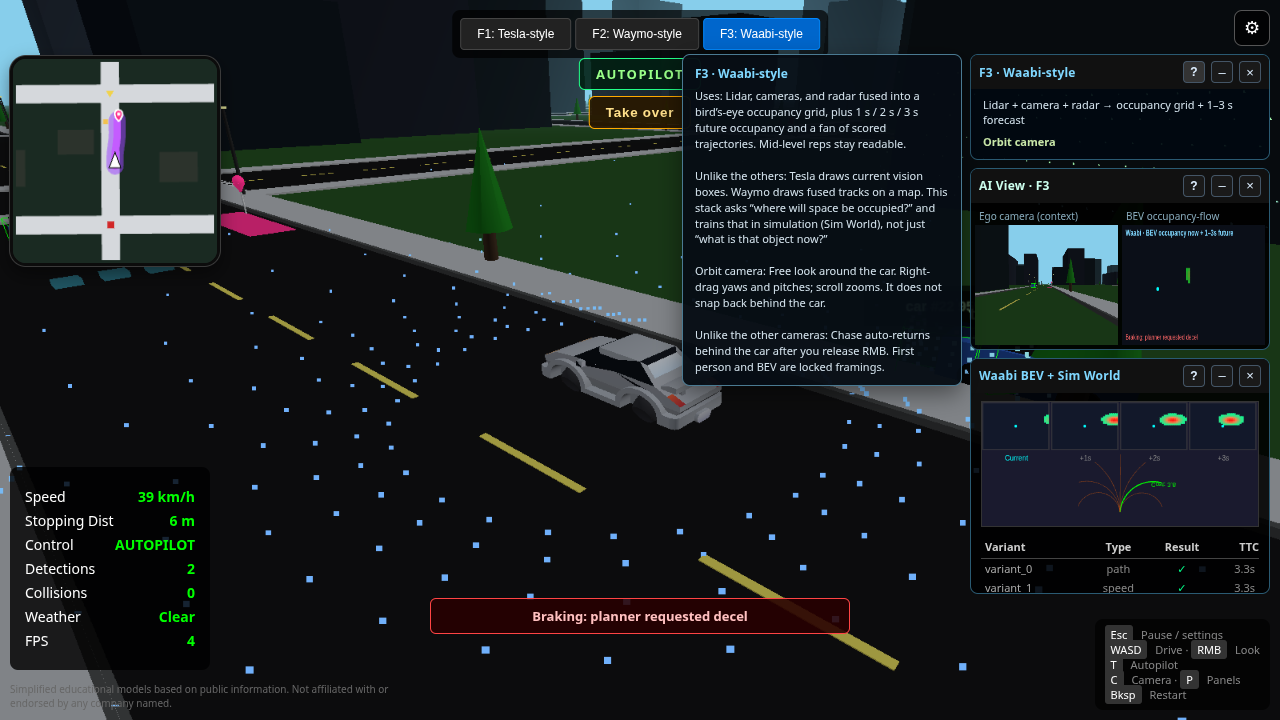
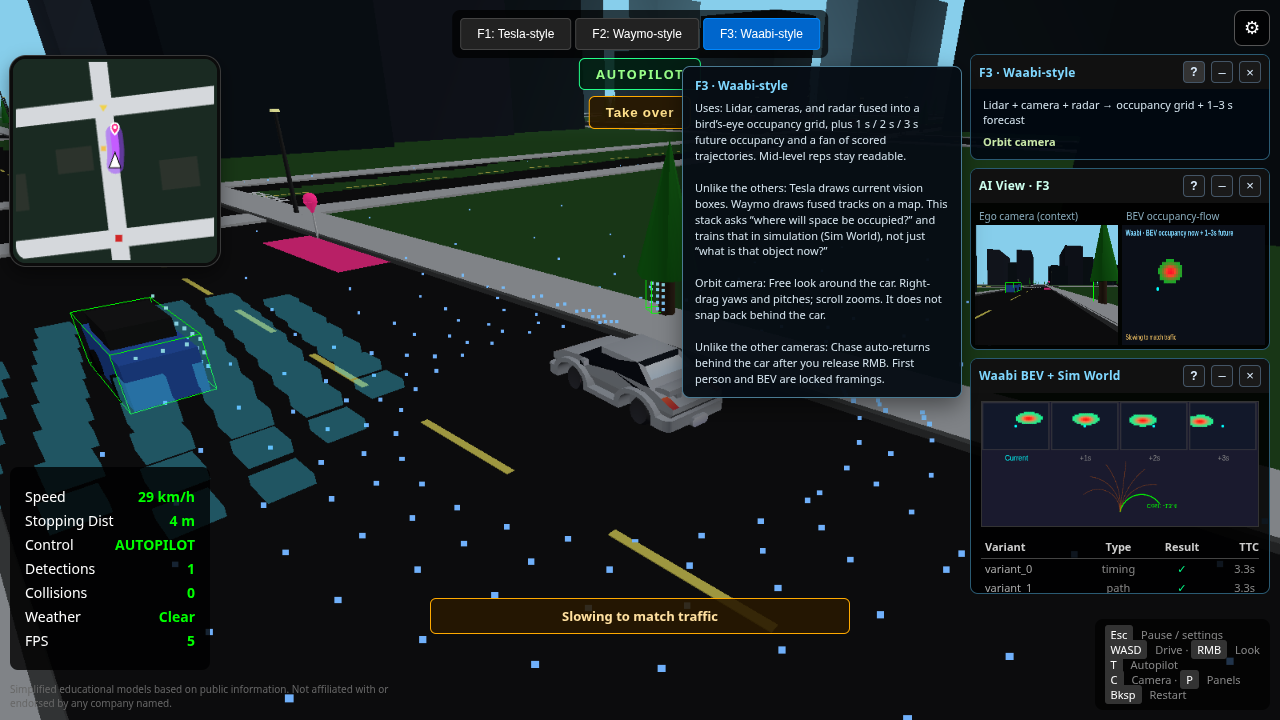
fix: keep ? popover below F1–F3 tabs and stop Esc from pausing
Help Esc is consumed in capture so it does not open the pause menu.
World labels stay off the 300px column; refreshed HUD screenshots.

diff --git a/game/src/ui/hudPanelDom.test.ts b/game/src/ui/hudPanelDom.test.ts
@@ -86,7 +86,9 @@ describe('HUD panel DOM', () => {
 
     help.click();
     expect(panelHelpIsOpen()).toBe(true);
-    document.dispatchEvent(new KeyboardEvent('keydown', { key: 'Escape', bubbles: true }));
+    const esc = new KeyboardEvent('keydown', { key: 'Escape', bubbles: true, cancelable: true });
+    document.dispatchEvent(esc);
+    expect(esc.defaultPrevented).toBe(true);
     expect(panelHelpIsOpen()).toBe(false);
 
     const bevHelp = stack.querySelector<HTMLButtonElement>('.hud-panel-help[data-help="bev"]')!;

diff --git a/game/src/ui/panelHelp.ts b/game/src/ui/panelHelp.ts
@@ -110,6 +110,7 @@ function onDocumentKeydown(ev: Event): void {
   const key = (ev as KeyboardEvent).key;
   if (key !== 'Escape') return;
   ev.preventDefault();
+  ev.stopPropagation();
   dismissPanelHelp();
 }
 

diff --git a/docs/screenshots/README.md b/docs/screenshots/README.md
@@ -68,7 +68,10 @@ Side-by-side of the Tesla Model 3/Y reference (left) and the live hood shot (rig
 Shared 300px right column on F1 / F2 / F3: view-info (name + one-line sensors + camera), AI View, and on F3 Waabi BEV + Sim World. Same right edge, 8px gaps, no overlap.
 
 ### hud_f3_help_popover.png
-F3 view-info **?** popover to the left of the column (USES / unlike / camera copy). Closes on click-outside or Esc.
+F3 view-info **?** popover to the left of the column (USES / unlike / camera copy), below the F1/F2/F3 tab bar. Closes on click-outside or Esc.
+
+### hud_f1_help_popover.png
+F1 **?** popover below the F1/F2/F3 tabs — the switcher stays fully visible.
 
 ### hud_panels_open.png
 Right-side column with explainer, AI View, and info all open — no overlap.
